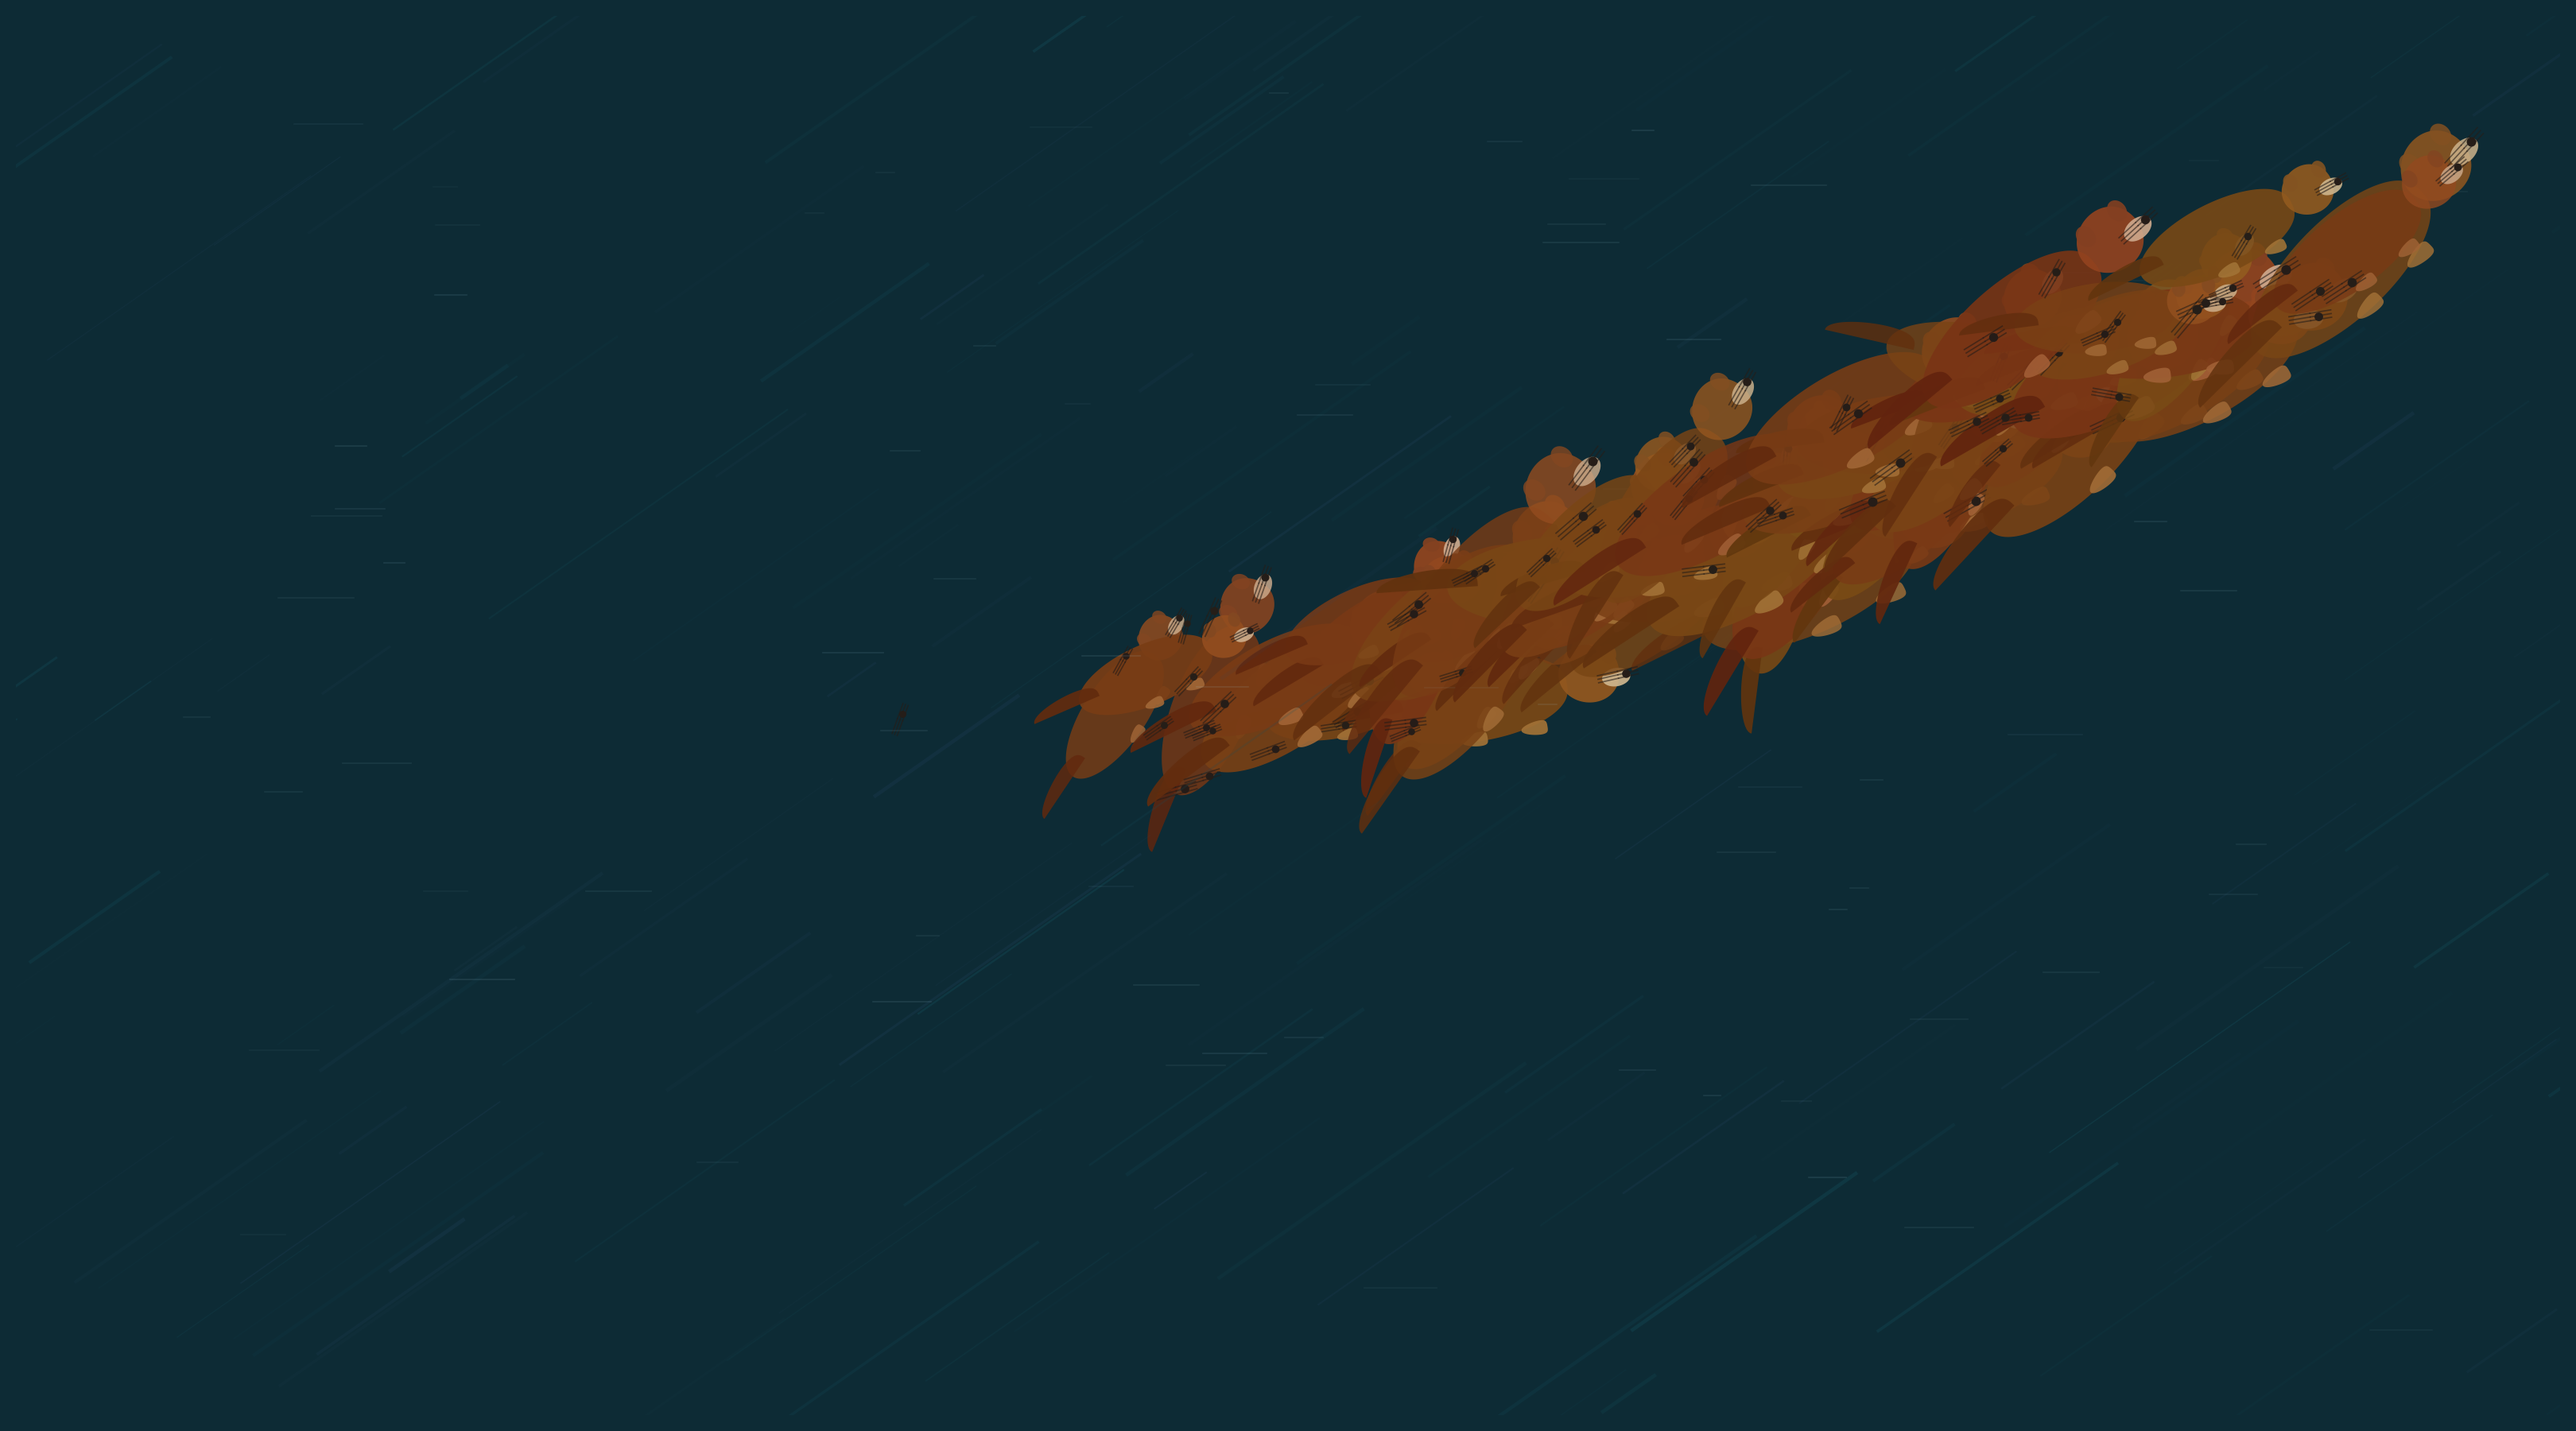
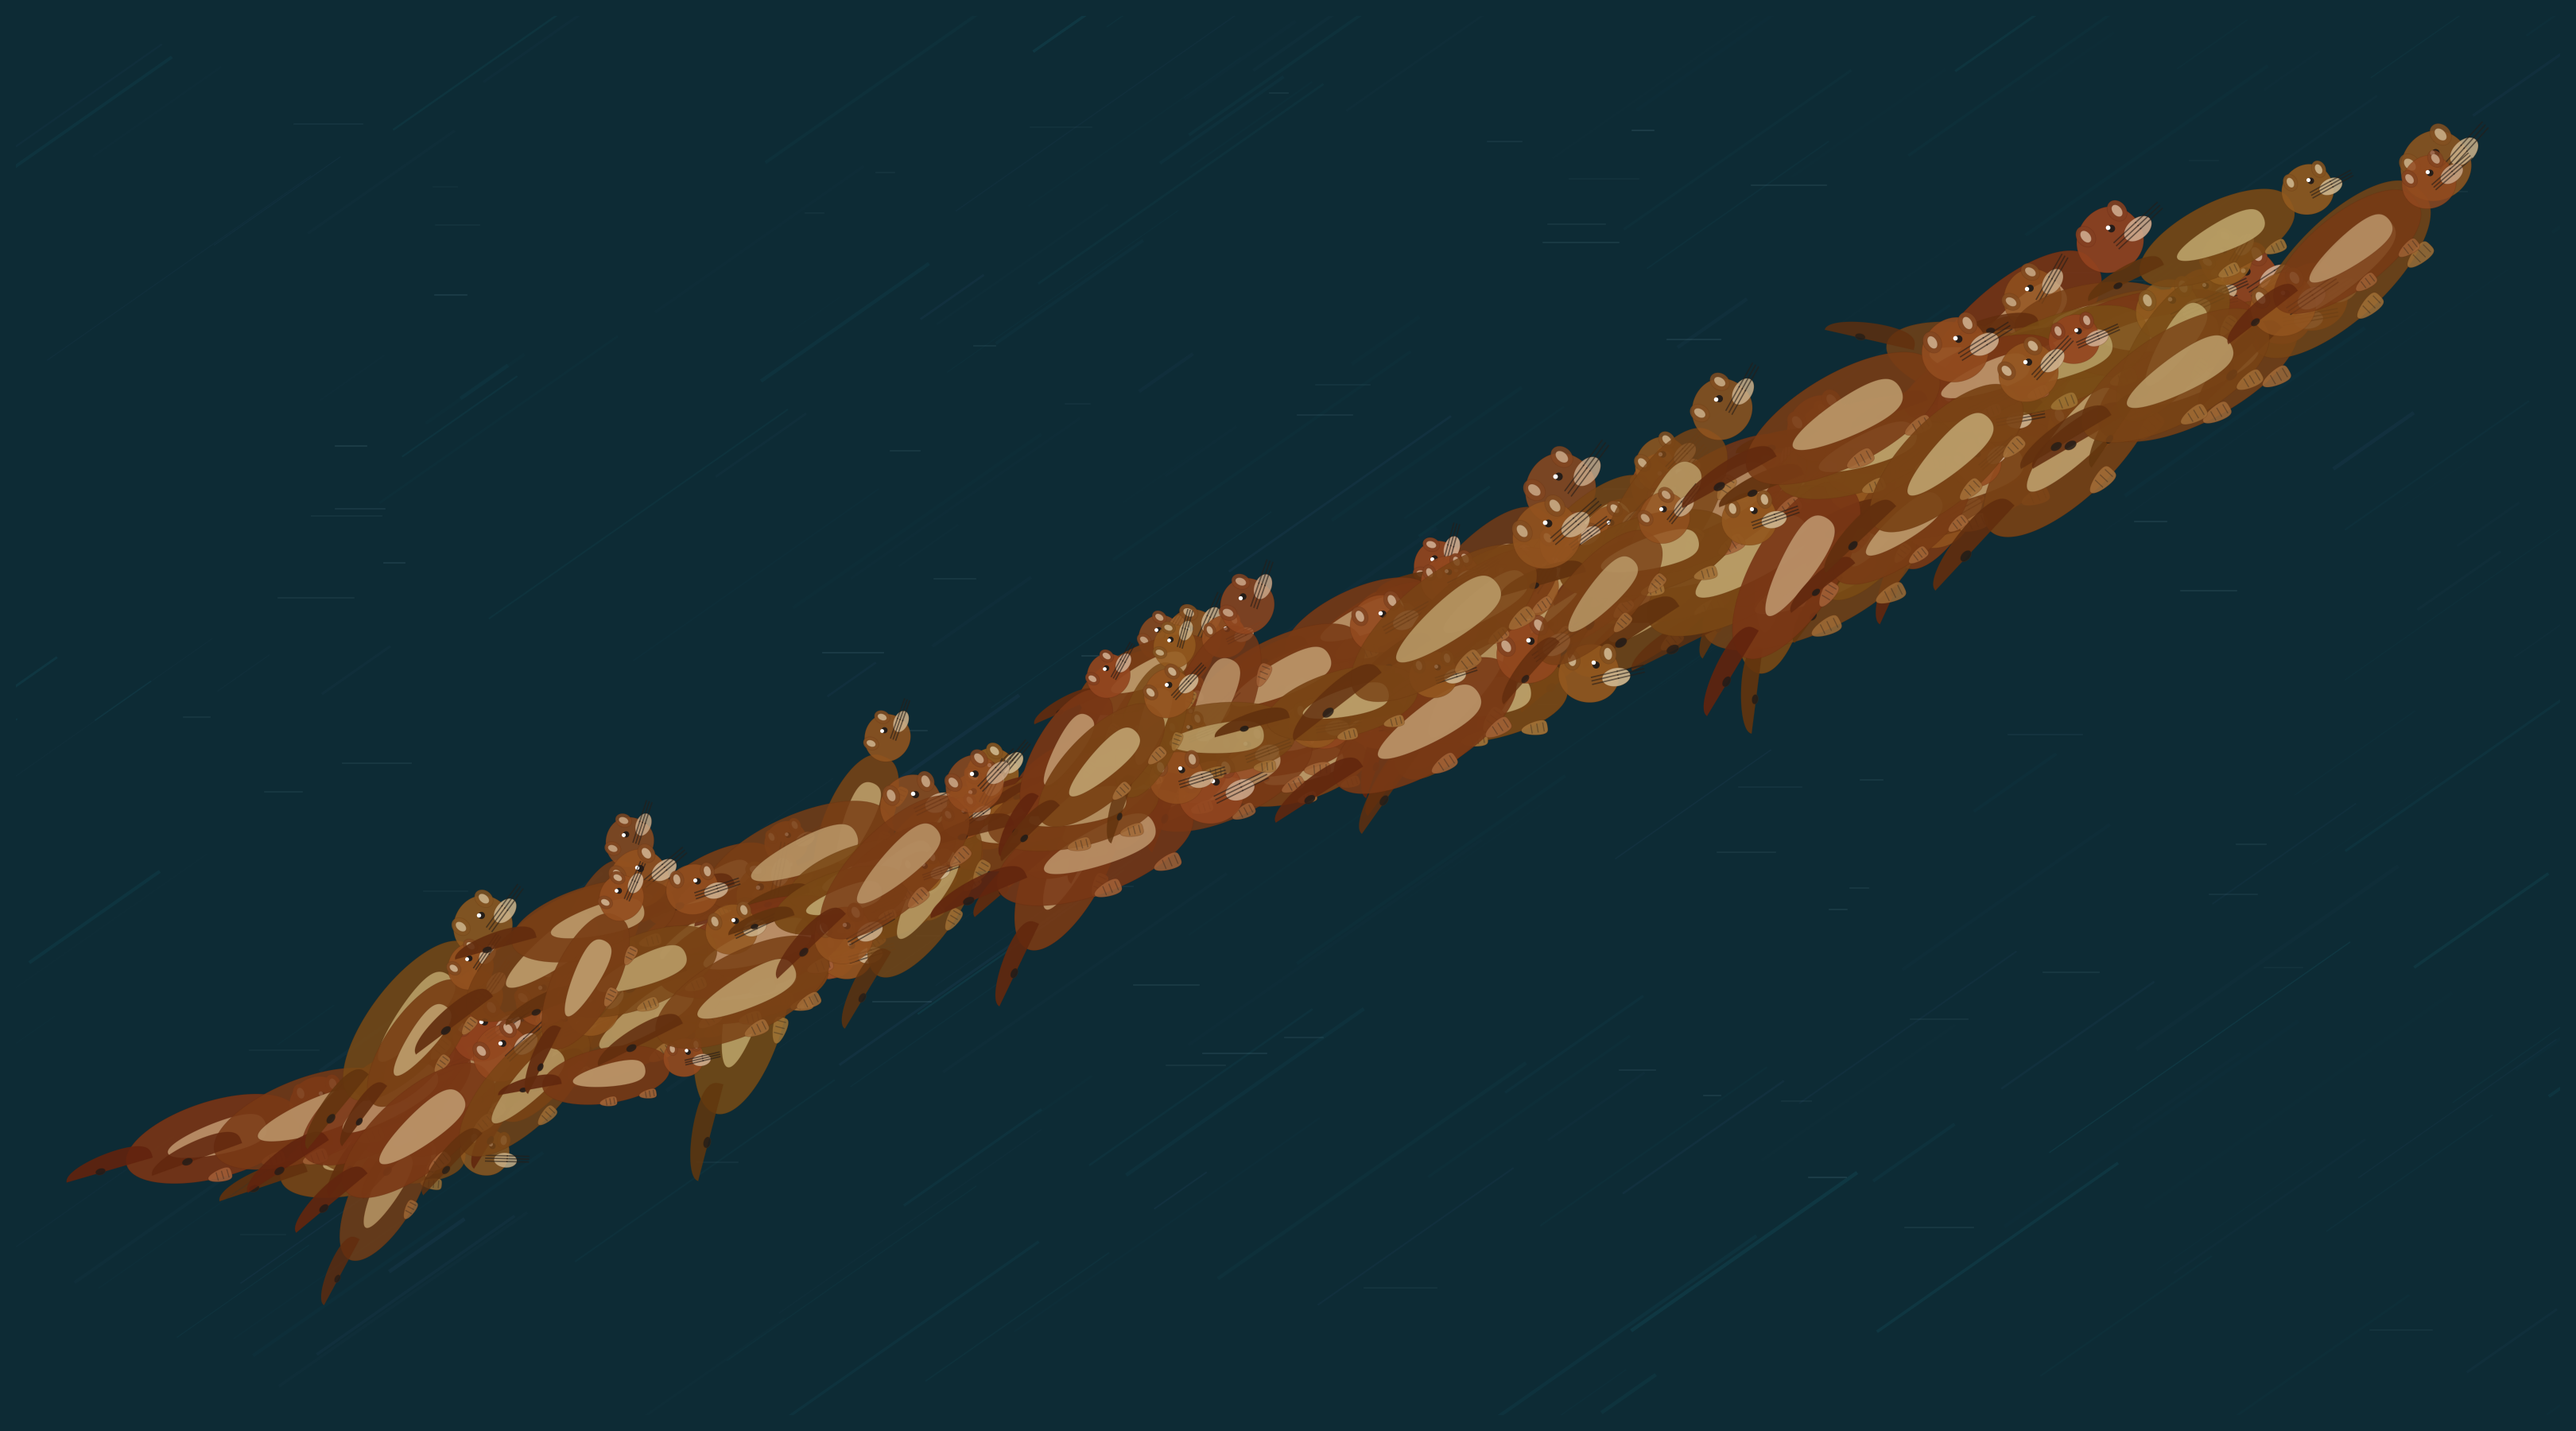
polish polish

Changed region(s): [[0.0312, 0.1556, 0.9352, 0.9022], [0.9352, 0.0933, 0.9664, 0.1244]]

diff --git a/otter.py b/otter.py
@@ -64,36 +64,71 @@ def otter_palette(rng):
         'ear': c(base_hue + jitter, 0.60, 0.32),
         'paw': c(base_hue + 0.01 + jitter, 0.50, 0.42),
         'nose': c(base_hue - 0.01, 0.20, 0.12),
-        'belly': c(base_hue + 0.03 + jitter, 0.35, 0.62)
+        'belly': c(base_hue + 0.03 + jitter, 0.38, 0.58)
     }
 
-def draw_otter(ax, scale, angle, tx, ty, rng, alpha=0.88):
+def draw_otter(ax, scale, angle, tx, ty, rng, alpha=0.88, zorder_base=0):
     pal = otter_palette(rng)
     lw = 0
 
     def fill(xy_fn, color, t_=t):
         x, y = xy_fn(t_)
         xr, yr = transform(x, y, scale, angle, tx, ty)
-        ax.fill(xr, yr, color=color, linewidth=lw, alpha=alpha, zorder=ty)
+        ax.fill(xr, yr, color=color, linewidth=lw, alpha=alpha, zorder=zorder_base)
+        ax.plot(np.append(xr, xr[0]), np.append(yr, yr[0]), color=pal['tail'], linewidth=0.3, alpha=0.25, zorder=zorder_base)
     
+    def plot_point(lx, ly, color, size):
+        px, py = transform(np.array([lx]), np.array([ly]), scale, angle, tx, ty)
+        ax.plot(px, py, 'o', color=color, markersize=size * scale, zorder=zorder_base+2)
+
     fill(body, pal['body'])
     fill(lambda t_: tail(None), pal['tail'])
+
+    def belly(t):
+        x = -(0.55*np.cos(t) + 0.10*np.cos(2*t))
+        y = -(0.18*np.sin(t))
+        return x, y
+    fill(belly, pal['belly'])
+
     fill(head, pal['head'])
     fill(muzzle, pal['muzzle'])
+
+    def inner_ear(t, side=1):
+        x = -(0.04*np.cos(t) - 1.08 + side*0.18)
+        y = 0.06*np.sin(t) + 0.22
+        return x, y
+
     fill(lambda t: ear(t, -1), pal['ear'])
+    fill(lambda t: inner_ear(t, -1), pal['muzzle'])
     fill(lambda t: ear(t, 1), pal['ear'])
+    fill(lambda t: inner_ear(t, 1), pal['muzzle'])
+
     fill(lambda t: paw(t, -0.45, -0.38), pal['paw'])
     fill(lambda t: paw(t, 0.15, -0.39), pal['paw'])
 
-    nx, ny = transform(np.array([1.40]), np.array([0.0]), scale, angle, tx, ty)
-    ax.plot(nx, ny, 'o', color=pal['nose'], markersize=scale*3.5, zorder=ty+1)
+    nose_t = np.linspace(0, 2*np.pi, 30)
+    def nose_shape(t):
+        x = -(0.055*np.cos(t) + 1.40)
+        y = 0.035*np.sin(t) + 0.01
+        return x, y
+    fill(nose_shape, pal['nose'])
+
+    plot_point(1.12, 0.14, pal['nose'], 2.8)
+    plot_point(1.10, 0.16, '#ffffff', 1.2)
 
     for dy in [-0.035, 0.0, 0.035]:
         for sign in [-1, 1]:
-            wx = np.array([1.32, 1.32 + sign*0.20])
-            wy = np.array([dy, dy + sign*0.01])
+            wx = np.array([1.32, 1.32 + sign*0.26])
+            wy = np.array([dy, dy + sign*0.015])
             xr, yr = transform(wx, wy, scale, angle, tx, ty)
-            ax.plot(xr, yr, color=pal['nose'], linewidth=0.6, alpha=0.6, zorder=ty+1)
+            ax.plot(xr, yr, color=pal['nose'], linewidth=0.6, alpha=0.6, zorder=zorder_base+1)
+    
+    for ox, oy in [(-0.45, -0.38), (0.15, -0.39)]:
+        for toe_dx in [-0.06, 0.0, 0.06]:
+            px = np.array([-(ox + toe_dx), -(ox + toe_dx)])
+            py = np.array([oy - 0.04, oy + 0.04])
+            xr, yr = transform(px, py, scale, angle, tx, ty)
+            ax.plot(xr, yr, color=pal['nose'], linewidth=0.5, alpha=0.35, zorder=zorder_base+1)
 
 rng = np.random.default_rng(7)
 N = 80
@@ -130,19 +165,18 @@ ax.set_ylim(-5.5, 5.5)
 
 cols, rows = 12, 10
 
-for row in range(rows):
-    for col in range(cols):
-        phi = col / (cols - 1)
-        band = (row / (rows - 1)) - 0.5
+for i, (row, col) in enumerate((r, c) for r in range(rows) for c in range(cols)):
+    phi = col / (cols - 1)
+    band = (row / (rows - 1)) - 0.5
 
-        cx = -7 + phi * 14 + band * 2.5 + rng.normal(0, 0.4)
-        cy = -3 + phi * 6 + band * 1.2 + rng.normal(0, 0.3)
+    cx = -7 + phi * 14 + band * 2.5 + rng.normal(0, 0.4)
+    cy = -3 + phi * 6 + band * 1.2 + rng.normal(0, 0.3)
 
-        scale = rng.uniform(0.65, 1.0) * (0.80 + 0.20 * phi)
-        angle = 35 + rng.normal(0, 18)
-        alpha = rng.uniform(0.80, 0.95)
+    scale = rng.uniform(0.65, 1.0) * (0.80 + 0.20 * phi)
+    angle = 35 + rng.normal(0, 18)
+    alpha = rng.uniform(0.80, 0.95)
 
-        draw_otter(ax, scale=scale, angle=angle, tx=cx, ty=cy, rng=rng, alpha=alpha)
+    draw_otter(ax, scale=scale, angle=angle, tx=cx, ty=cy, rng=rng, alpha=alpha, zorder_base=i*10)
 
 plt.tight_layout(pad=0)
 plt.savefig('otter_v1.png', dpi=200, bbox_inches='tight', facecolor='#0d2b35')
